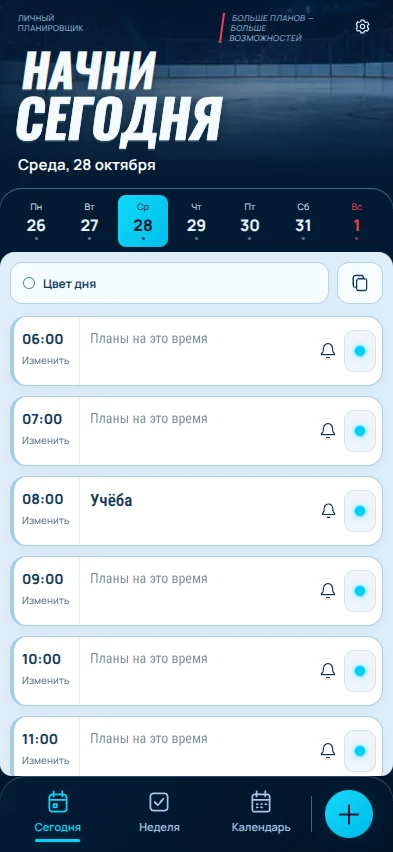
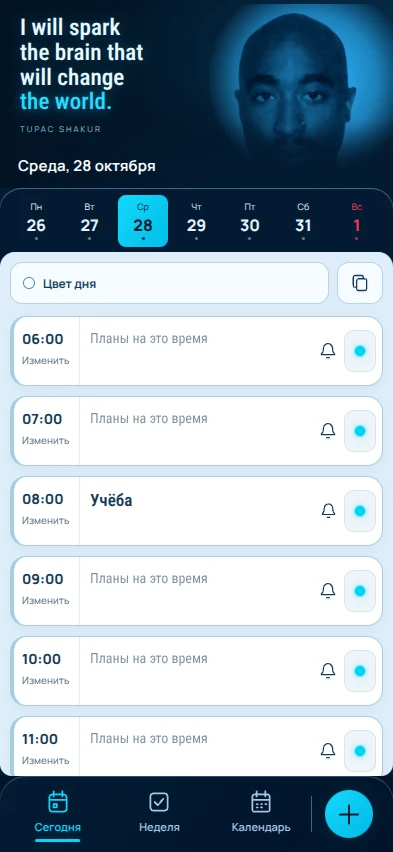
Personalize Ice home with blue-neon Tupac portrait and quote; remove old slogans and top settings (2.3.13)

Changed region(s): [[0.0, 0.0, 1.0, 0.2136]]

diff --git a/app/src/main/assets/index.html b/app/src/main/assets/index.html
@@ -674,6 +674,23 @@ body[data-design=ice] .ice-time-edit{border:0;border-right:1px solid #7fa6c333;b
 body[data-design=ice] .ice-time-block[data-color=none] .ice-color-button i{background:#00d0fa;border:1px solid #75eaff;box-shadow:0 0 7px #00d0fa66}
 body[data-design=ice] .ice-compose{width:48px;height:48px;padding:12px}
 body[data-design=ice] .ice-compose svg{width:25px;height:25px}
+</style><style>
+body[data-design=ice] #settings-open{display:none}
+body[data-design=ice] .ice-tribute{height:188px;min-height:188px;background:radial-gradient(ellipse at 88% 25%,#07598155,transparent 55%),linear-gradient(120deg,#021324,#031d35);padding:0;isolation:isolate}
+.ice-photo-filter{position:absolute;pointer-events:none}
+.ice-tribute-glow{position:absolute;right:-20px;top:5px;width:54%;height:147px;background:radial-gradient(ellipse,#00d4ff36,transparent 68%);filter:blur(9px);pointer-events:none}
+.ice-tupac-photo{position:absolute;right:0;top:4px;width:50%;height:176px;overflow:hidden;mask-image:radial-gradient(ellipse 62% 68% at 57% 43%,#000 34%,#000b 56%,transparent 84%);-webkit-mask-image:radial-gradient(ellipse 62% 68% at 57% 43%,#000 34%,#000b 56%,transparent 84%)}
+.ice-tupac-photo img{width:100%;height:100%;object-fit:cover;object-position:50% 0%;filter:url(#ice-tupac-duotone) contrast(1.12);opacity:.97}
+.ice-tribute:after{content:'';position:absolute;inset:0;pointer-events:none;background:linear-gradient(90deg,#021425 0%,#02142533 44%,transparent 67%),linear-gradient(0deg,#031a31 0%,#031a31d9 12%,transparent 36%);z-index:1}
+.ice-tribute-quote{position:relative;z-index:2;margin:0;padding:16px 0 0 20px;width:56%;text-align:left}
+.ice-tribute-quote p{margin:0;color:#e8faff;font-family:IceTask,sans-serif;font-size:23px;font-weight:550;line-height:1.08;letter-spacing:.1px;text-shadow:0 0 12px #25c4ff44}
+.ice-tribute-quote em{font-style:normal;color:#22dcff;text-shadow:0 0 13px #00c8ff88}
+.ice-tribute-quote cite{display:block;margin-top:8px;color:#95c7de;font-family:PlannerManrope,sans-serif;font-style:normal;font-size:8px;letter-spacing:2px;text-transform:uppercase}
+body[data-design=ice] .ice-tribute .ice-date-line{position:absolute;z-index:2;left:18px;right:18px;bottom:9px;margin:0;min-height:27px;font-size:15px}
+body[data-design=ice].ice-editing .ice-tribute{height:46px;min-height:46px}
+body[data-design=ice].ice-editing .ice-tribute-quote,body[data-design=ice].ice-editing .ice-tupac-photo,body[data-design=ice].ice-editing .ice-tribute-glow{display:none}
+body[data-design=ice].ice-editing .ice-tribute .ice-date-line{bottom:6px;font-size:13px;left:13px}
+@media(max-width:350px){.ice-tribute-quote{padding-left:16px}.ice-tribute-quote p{font-size:22px}.ice-tupac-photo{width:56%;right:-8px}body[data-design=ice] .ice-tribute .ice-date-line{font-size:14px;left:16px}}
 </style></head><body><main><header class="app-heading"><p id="top-date"></p><div class="header-actions"><button class="header-icon" data-tab="events" aria-label="События и напоминания"><svg viewBox="0 0 24 24" fill="none" stroke="currentColor" stroke-width="1.7"><path d="M18 8a6 6 0 0 0-12 0c0 7-3 7-3 9h18c0-2-3-2-3-9M10 21h4"/></svg></button><button class="header-icon" id="settings-open" aria-label="Настройки" aria-expanded="false"><svg viewBox="0 0 24 24" fill="none" stroke="currentColor" stroke-width="1.7"><path d="m10 3-.7 2.3-2 .9-2.2-.7-2 3.4 1.5 1.8v2.6L3.1 15l2 3.4 2.2-.7 2 .9.7 2.4h4l.7-2.4 2-.9 2.2.7 2-3.4-1.5-1.7v-2.6l1.5-1.8-2-3.4-2.2.7-2-.9L14 3z"/><circle cx="12" cy="12" r="3"/></svg></button></div></header><nav class="tabs" aria-label="Период"><button class="tab active" data-tab="day"><svg class="ui-icon" width="20" height="20" viewBox="0 0 24 24" fill="none" stroke="currentColor" stroke-width="1.65" stroke-linecap="round" stroke-linejoin="round" aria-hidden="true"><rect x="4" y="5" width="16" height="16" rx="3"/><path d="M8 3v4m8-4v4M4 11h16m-11 4h2v2H9z"/></svg><span>День</span></button><button class="tab" data-tab="week"><svg class="ui-icon" width="20" height="20" viewBox="0 0 24 24" fill="none" stroke="currentColor" stroke-width="1.65" stroke-linecap="round" stroke-linejoin="round" aria-hidden="true"><rect x="3" y="3" width="7" height="7" rx="1"/><rect x="14" y="3" width="7" height="7" rx="1"/><rect x="3" y="14" width="7" height="7" rx="1"/><rect x="14" y="14" width="7" height="7" rx="1"/></svg><span>Неделя</span></button><button class="tab" data-tab="calendar"><svg class="ui-icon" width="20" height="20" viewBox="0 0 24 24" fill="none" stroke="currentColor" stroke-width="1.65" stroke-linecap="round" stroke-linejoin="round" aria-hidden="true"><rect x="4" y="5" width="16" height="16" rx="3"/><path d="M8 3v4m8-4v4M4 11h16m-11 4h6"/></svg><span>Календарь</span></button><button class="tab" data-tab="savings"><svg class="ui-icon" width="20" height="20" viewBox="0 0 24 24" fill="none" stroke="currentColor" stroke-width="1.65" stroke-linecap="round" stroke-linejoin="round" aria-hidden="true"><ellipse cx="12" cy="5" rx="7" ry="3"/><path d="M5 5v5c0 4 14 4 14 0V5M5 10v5c0 4 14 4 14 0v-5M5 15v4c0 4 14 4 14 0v-4"/></svg><span>Накопления</span></button><button class="tab" data-tab="notes"><svg class="ui-icon" width="20" height="20" viewBox="0 0 24 24" fill="none" stroke="currentColor" stroke-width="1.65" stroke-linecap="round" stroke-linejoin="round" aria-hidden="true"><path d="M14 3H6a2 2 0 0 0-2 2v14a2 2 0 0 0 2 2h12a2 2 0 0 0 2-2V9zM14 3v6h6M8 13h8m-8 4h6"/></svg><span>Заметки</span></button><button class="tab" data-tab="events" aria-label="События и напоминания"><svg class="ui-icon" width="20" height="20" viewBox="0 0 24 24" fill="none" stroke="currentColor" stroke-width="1.65" stroke-linecap="round" stroke-linejoin="round" aria-hidden="true"><path d="M18 8a6 6 0 0 0-12 0c0 7-3 7-3 9h18c0-2-3-2-3-9M10 21h4"/></svg></button></nav><div class="toolbar"><div class="period-title"><h1 class="date-title" id="title"></h1><p class="sub" id="subtitle"></p></div><div class="nav"><button class="btn arrow" id="prev" aria-label="Предыдущий период">‹</button><label class="sr-only" for="date">Выбрать дату</label><input class="date-input" id="date" type="date"><button class="btn arrow" id="next" aria-label="Следующий период">›</button><button class="btn" id="today">Сегодня</button></div></div><div id="view"></div><div id="footer-home" hidden></div><footer id="app-footer" hidden><span id="save-state" role="status">Сохранено на устройстве</span><button id="global-calc-open" hidden aria-label="Калькулятор"></button></footer></main>
 <dialog id="reminder-dialog" aria-labelledby="reminder-title"><form id="reminder-form"><div class="dialog-head"><h2 id="reminder-title">Событие</h2><button type="button" data-close="reminder-dialog" aria-label="Закрыть">×</button></div><input name="reminderId" type="hidden"><label class="field">Название<input name="title" maxlength="500" required placeholder="Например, день рождения"></label><div class="reminder-datetime"><label class="field">Дата<input name="date" type="date" required></label><label class="field">Время<input name="time" type="time" required></label></div><label class="field">Напомнить<select name="lead"><option value="0">В указанное время</option><option value="5">За 5 минут</option><option value="10">За 10 минут</option><option value="15">За 15 минут</option><option value="30">За 30 минут</option><option value="60">За 1 час</option><option value="1440">За 1 день</option></select></label><label class="field">Повтор<select name="repeat"><option value="none">Один раз</option><option value="daily">Каждый день</option><option value="weekly">По дням недели</option><option value="monthly">Каждый месяц</option><option value="yearly">Каждый год</option></select></label><div id="weekday-options" class="weekday-options" hidden><label><input name="weekdays" type="checkbox" value="1">Пн</label><label><input name="weekdays" type="checkbox" value="2">Вт</label><label><input name="weekdays" type="checkbox" value="3">Ср</label><label><input name="weekdays" type="checkbox" value="4">Чт</label><label><input name="weekdays" type="checkbox" value="5">Пт</label><label><input name="weekdays" type="checkbox" value="6">Сб</label><label><input name="weekdays" type="checkbox" value="7">Вс</label></div><p class="dialog-note" id="repeat-help"></p><label class="enabled-reminder"><input type="checkbox" name="enabled" checked>Уведомление включено</label><p id="reminder-error" class="form-error" hidden></p><div class="dialog-actions"><button type="button" class="btn danger" id="reminder-delete" hidden>Удалить</button><button type="submit" class="btn primary">Сохранить</button></div></form></dialog>
 <dialog id="main-menu-dialog" aria-labelledby="main-menu-title"><form id="main-menu-form"><div class="dialog-head"><h2 id="main-menu-title">Главное меню</h2><button type="button" data-close="main-menu-dialog" aria-label="Закрыть">×</button></div><p class="dialog-note">Выбери три раздела для нижнего меню. Плюс остаётся третьей кнопкой. Выбор и порядок одинаковы во всех темах.</p><div id="main-menu-preview" class="main-menu-preview" aria-label="Предпросмотр меню"></div><label class="field">Первая кнопка<select name="menuFirst"></select></label><label class="field">Вторая кнопка<select name="menuSecond"></select></label><label class="field">Кнопка справа от плюса<select name="menuThird"></select></label><p id="main-menu-error" class="form-error" role="alert" hidden></p><p class="dialog-note">Скрытие кнопки не удаляет записи. На день и в настройки можно перейти через «+».</p><button class="btn" id="main-menu-reset" type="button">По умолчанию</button><div class="dialog-actions"><button class="btn" type="button" data-close="main-menu-dialog">Отмена</button><button class="btn primary" id="main-menu-save" type="submit">Сохранить</button></div></form></dialog><dialog id="ice-time-dialog" aria-labelledby="ice-time-title"><form id="ice-time-form"><div class="dialog-head"><h2 id="ice-time-title">Время задачи</h2><button type="button" data-close="ice-time-dialog" aria-label="Закрыть">×</button></div><label class="field">Точное время<input name="time" type="time" min="06:00" max="23:59" step="60" required></label><p class="dialog-note">Выбери время с 06:00 до 23:59. Запись займёт своё место в расписании.</p><p id="ice-time-error" class="form-error" role="alert" hidden></p><div class="dialog-actions"><button type="button" class="btn" data-close="ice-time-dialog">Отмена</button><button type="submit" class="btn primary">Готово</button></div></form></dialog><dialog id="ice-menu-dialog" aria-labelledby="ice-menu-title"><div class="dialog-head"><h2 id="ice-menu-title">Больше возможностей</h2><button data-close="ice-menu-dialog" aria-label="Закрыть">×</button></div><div id="ice-tools-list"></div></dialog><dialog id="theme-dialog" aria-labelledby="theme-title"><div class="dialog-head"><h2 id="theme-title">Оформление</h2><button data-close="theme-dialog" aria-label="Закрыть">×</button></div><p class="dialog-note">Выбери готовую тему и нажми «Применить». У каждой темы своя палитра для всех разделов.</p><h3 class="appearance-label">Темы приложения</h3><div id="design-gallery" class="design-gallery"></div><label class="field">Шрифт интерфейса<select id="typeface-choice"><option value="theme">По теме</option><option value="modern">Современный · Manrope</option><option value="book">Книжный · Lora</option><option value="system">Системный</option></select></label><label class="field">Размер записей<select id="font-size-choice"><option value="small">Компактный</option><option value="normal">Обычный</option><option value="large">Крупный</option></select></label><label class="field">Высота строк расписания<select id="density-choice"><option value="normal">Обычная</option><option value="compact">Компактная</option></select></label></dialog>
@@ -953,7 +970,7 @@ function setIceSlotColor(d,i,key){if(!validDate(d)||!Number.isInteger(i)||i<0||i
 function iceColor(key){return ICE_COLORS[key]||ICE_COLORS.none}
 function iceRowStyle(key){const c=iceColor(key);return `--ice-mark:${c[1]};--ice-card:${c[2]};--ice-ink:${c[3]}`}
 function activeColors(){return state.prefs.design==='ice'?ICE_COLORS:COLORS}
-function renderIceDay(){const start=monday(selected);$('view').innerHTML=`<section class="ice-home"><header class="ice-hero"><div class="ice-photo-clip" aria-hidden="true"><img src="ice/arena-reference.webp" alt=""></div><div class="ice-photo-shade"></div><div class="ice-hero-top"><span>ЛИЧНЫЙ<br>ПЛАНИРОВЩИК</span><p>БОЛЬШЕ ПЛАНОВ —<br>БОЛЬШЕ ВОЗМОЖНОСТЕЙ</p><span id="ice-gear-slot"></span></div><h1><span>Начни</span><strong>сегодня</strong></h1><div class="ice-date-line"><span>${fmt(selected,{weekday:'long',day:'numeric',month:'long'}).replace(/^./,c=>c.toUpperCase())}</span></div></header><nav class="ice-week" aria-label="Дни недели">${Array.from({length:7},(_,i)=>{const d=addDays(start,i),count=occupied(d)+dayEvents(d).length;return `<button data-date="${d}" class="${i===6?'ice-sunday':''}" ${d===selected?'aria-current="date"':''} aria-label="${fmt(d,{weekday:'long',day:'numeric',month:'long'})}"><span>${fmt(d,{weekday:'short'})}</span><strong>${dateObj(d).getDate()}</strong><i class="${count?'has-plans':''}"></i></button>`}).join('')}</nav><div class="ice-edit-bar"><span><small>Редактирование</small><strong id="ice-edit-time"></strong></span><button type="button" id="ice-edit-done">Готово</button></div><div class="ice-paper"><div class="ice-time-grid"><div class="ice-day-tools"><button data-day-color-open="${selected}"><i style="background:${iceColor(dayColor(selected))[1]}"></i>Цвет дня</button><button id="copy-open" aria-label="Скопировать день">${uiIcon('copy')}</button></div>${slots().map((r,i)=>({...r,i})).sort((x,y)=>x.time.localeCompare(y.time)||x.i-y.i).map(r=>{const i=r.i,[a,b]=iceTimeRange(i);return `<section class="ice-time-block ${r.text.trim()?'has-entry':''}" data-ice-slot="${i}" data-slot="${i}" data-color="${r.color}" style="${iceRowStyle(r.color)}"><button type="button" class="ice-hours ice-time-edit" data-ice-time="${i}" aria-label="Изменить время ${a}"><time>${a}</time><span>Изменить</span></button><div class="ice-entry"><label class="sr-only" for="slot-${i}">Дело на ${a}</label><textarea rows="1" id="slot-${i}" data-edit="${i}" aria-label="Дело на ${a}" maxlength="10000" placeholder="Планы на это время" spellcheck="true" autocapitalize="sentences">${esc(r.text)}</textarea><div class="ice-card-actions"><button class="ice-entry-reminder" data-slot-reminder="${i}" aria-label="Напоминание для ${a}">${uiIcon('bell')}</button><button class="ice-color-button" data-color-open="${i}" aria-label="Цвет записи ${a}: ${iceColor(r.color)[0]}"><i></i></button></div><button type="button" class="ice-expand" data-ice-expand="${i}" aria-controls="slot-${i}" aria-expanded="false" aria-label="Развернуть задание" hidden><svg viewBox="0 0 24 24" fill="none" stroke="currentColor" stroke-width="2" aria-hidden="true"><path d="m6 9 6 6 6-6"/></svg></button><button type="button" class="ice-row-done" data-ice-done="${i}">✓ Готово</button></div></section>`}).join('')}<div class="ice-time-end">24:00</div></div></div></section>`;$('ice-gear-slot').appendChild($('settings-open'));refreshIceRows()}
+function renderIceDay(){const start=monday(selected);$('view').innerHTML=`<section class="ice-home"><header class="ice-hero ice-tribute"><svg class="ice-photo-filter" width="0" height="0" aria-hidden="true"><defs><filter id="ice-tupac-duotone" color-interpolation-filters="sRGB"><feColorMatrix type="matrix" values="0.06 0.06 0.06 0 0.01 0.19 0.19 0.19 0 0.04 0.25 0.25 0.25 0 0.10 0 0 0 1 0"/></filter></defs></svg><div class="ice-tribute-glow" aria-hidden="true"></div><div class="ice-tupac-photo"><img src="ice/tupac-portrait.jpg" alt="Тупак Шакур" decoding="async"></div><blockquote class="ice-tribute-quote"><p>I will spark<br>the brain that<br>will change<br><em>the world.</em></p><cite>Tupac Shakur</cite></blockquote><div class="ice-date-line"><span>${fmt(selected,{weekday:'long',day:'numeric',month:'long'}).replace(/^./,c=>c.toUpperCase())}</span></div></header><nav class="ice-week" aria-label="Дни недели">${Array.from({length:7},(_,i)=>{const d=addDays(start,i),count=occupied(d)+dayEvents(d).length;return `<button data-date="${d}" class="${i===6?'ice-sunday':''}" ${d===selected?'aria-current="date"':''} aria-label="${fmt(d,{weekday:'long',day:'numeric',month:'long'})}"><span>${fmt(d,{weekday:'short'})}</span><strong>${dateObj(d).getDate()}</strong><i class="${count?'has-plans':''}"></i></button>`}).join('')}</nav><div class="ice-edit-bar"><span><small>Редактирование</small><strong id="ice-edit-time"></strong></span><button type="button" id="ice-edit-done">Готово</button></div><div class="ice-paper"><div class="ice-time-grid"><div class="ice-day-tools"><button data-day-color-open="${selected}"><i style="background:${iceColor(dayColor(selected))[1]}"></i>Цвет дня</button><button id="copy-open" aria-label="Скопировать день">${uiIcon('copy')}</button></div>${slots().map((r,i)=>({...r,i})).sort((x,y)=>x.time.localeCompare(y.time)||x.i-y.i).map(r=>{const i=r.i,[a,b]=iceTimeRange(i);return `<section class="ice-time-block ${r.text.trim()?'has-entry':''}" data-ice-slot="${i}" data-slot="${i}" data-color="${r.color}" style="${iceRowStyle(r.color)}"><button type="button" class="ice-hours ice-time-edit" data-ice-time="${i}" aria-label="Изменить время ${a}"><time>${a}</time><span>Изменить</span></button><div class="ice-entry"><label class="sr-only" for="slot-${i}">Дело на ${a}</label><textarea rows="1" id="slot-${i}" data-edit="${i}" aria-label="Дело на ${a}" maxlength="10000" placeholder="Планы на это время" spellcheck="true" autocapitalize="sentences">${esc(r.text)}</textarea><div class="ice-card-actions"><button class="ice-entry-reminder" data-slot-reminder="${i}" aria-label="Напоминание для ${a}">${uiIcon('bell')}</button><button class="ice-color-button" data-color-open="${i}" aria-label="Цвет записи ${a}: ${iceColor(r.color)[0]}"><i></i></button></div><button type="button" class="ice-expand" data-ice-expand="${i}" aria-controls="slot-${i}" aria-expanded="false" aria-label="Развернуть задание" hidden><svg viewBox="0 0 24 24" fill="none" stroke="currentColor" stroke-width="2" aria-hidden="true"><path d="m6 9 6 6 6-6"/></svg></button><button type="button" class="ice-row-done" data-ice-done="${i}">✓ Готово</button></div></section>`}).join('')}<div class="ice-time-end">24:00</div></div></div></section>`;refreshIceRows()}
 function refreshIceRows(){if(state.prefs.design!=='ice'||tab!=='day')return;const now=new Date(),minutes=now.getHours()*60+now.getMinutes();document.querySelectorAll('.ice-time-block').forEach(row=>{const i=Number(row.dataset.iceSlot);const color=slots()[i].color;row.dataset.color=color;row.style.cssText=iceRowStyle(color);const trigger=row.querySelector('[data-color-open]');trigger.title=iceColor(color)[0];trigger.setAttribute('aria-label','Цвет записи '+iceTimeRange(i)[0]+': '+iceColor(color)[0]);const text=row.querySelector('textarea'),focused=text===document.activeElement,oldScroll=text.scrollTop,atEnd=text.selectionEnd===text.value.length;row.classList.toggle('has-entry',!!text.value.trim());row.classList.toggle('ice-row-editing',focused);const [a,b]=iceTimeRange(i).map(t=>{const [h,m]=t.split(':').map(Number);return h*60+m});row.classList.toggle('ice-current',selected===iso()&&minutes>=a&&minutes<b);const visible=iceVisibleHeight(),collapsed=Math.ceil(parseFloat(getComputedStyle(text).lineHeight)*2+4),expanded=row.classList.contains('ice-expanded'),max=focused?Math.max(70,Math.min(180,visible-235)):(expanded?Infinity:collapsed),min=focused?Math.min(96,max):42;text.style.height='auto';const needed=text.scrollHeight,toggle=row.querySelector('.ice-expand'),long=!!text.value.trim()&&needed>collapsed+1;toggle.hidden=focused||!long;toggle.setAttribute('aria-expanded',String(expanded));toggle.setAttribute('aria-label',expanded?'Свернуть задание':'Развернуть задание');text.style.height=Math.min(max,Math.max(min,needed))+'px';if(focused)text.scrollTop=atEnd?text.scrollHeight:oldScroll;else text.scrollTop=0})}
 function openIceMenu(){$('ice-tools-list').innerHTML=[['task','plus','Записать дело','Выбрать время в расписании'],['calculator','calculator','Калькулятор','Открыть на весь экран'],['notes','notes','Заметки','Идеи, списки и личные записи'],['savings','savings','Накопления','Посмотреть свои цели'],['settings','gear','Настройки','Темы и резервные копии']].map(([action,icon,title,desc])=>`<button data-ice-action="${action}"><span>${iceIcon(icon)}</span><span><strong>${title}</strong><small>${desc}</small></span><b>›</b></button>`).join('');$('ice-menu-dialog').showModal()}
 function focusIceTask(){navigate(selected,'day');const i=slots().findIndex(r=>!r.text.trim()),el=$('slot-'+(i<0?0:i));el.scrollIntoView({block:'center',behavior:'instant'});el.focus()}
